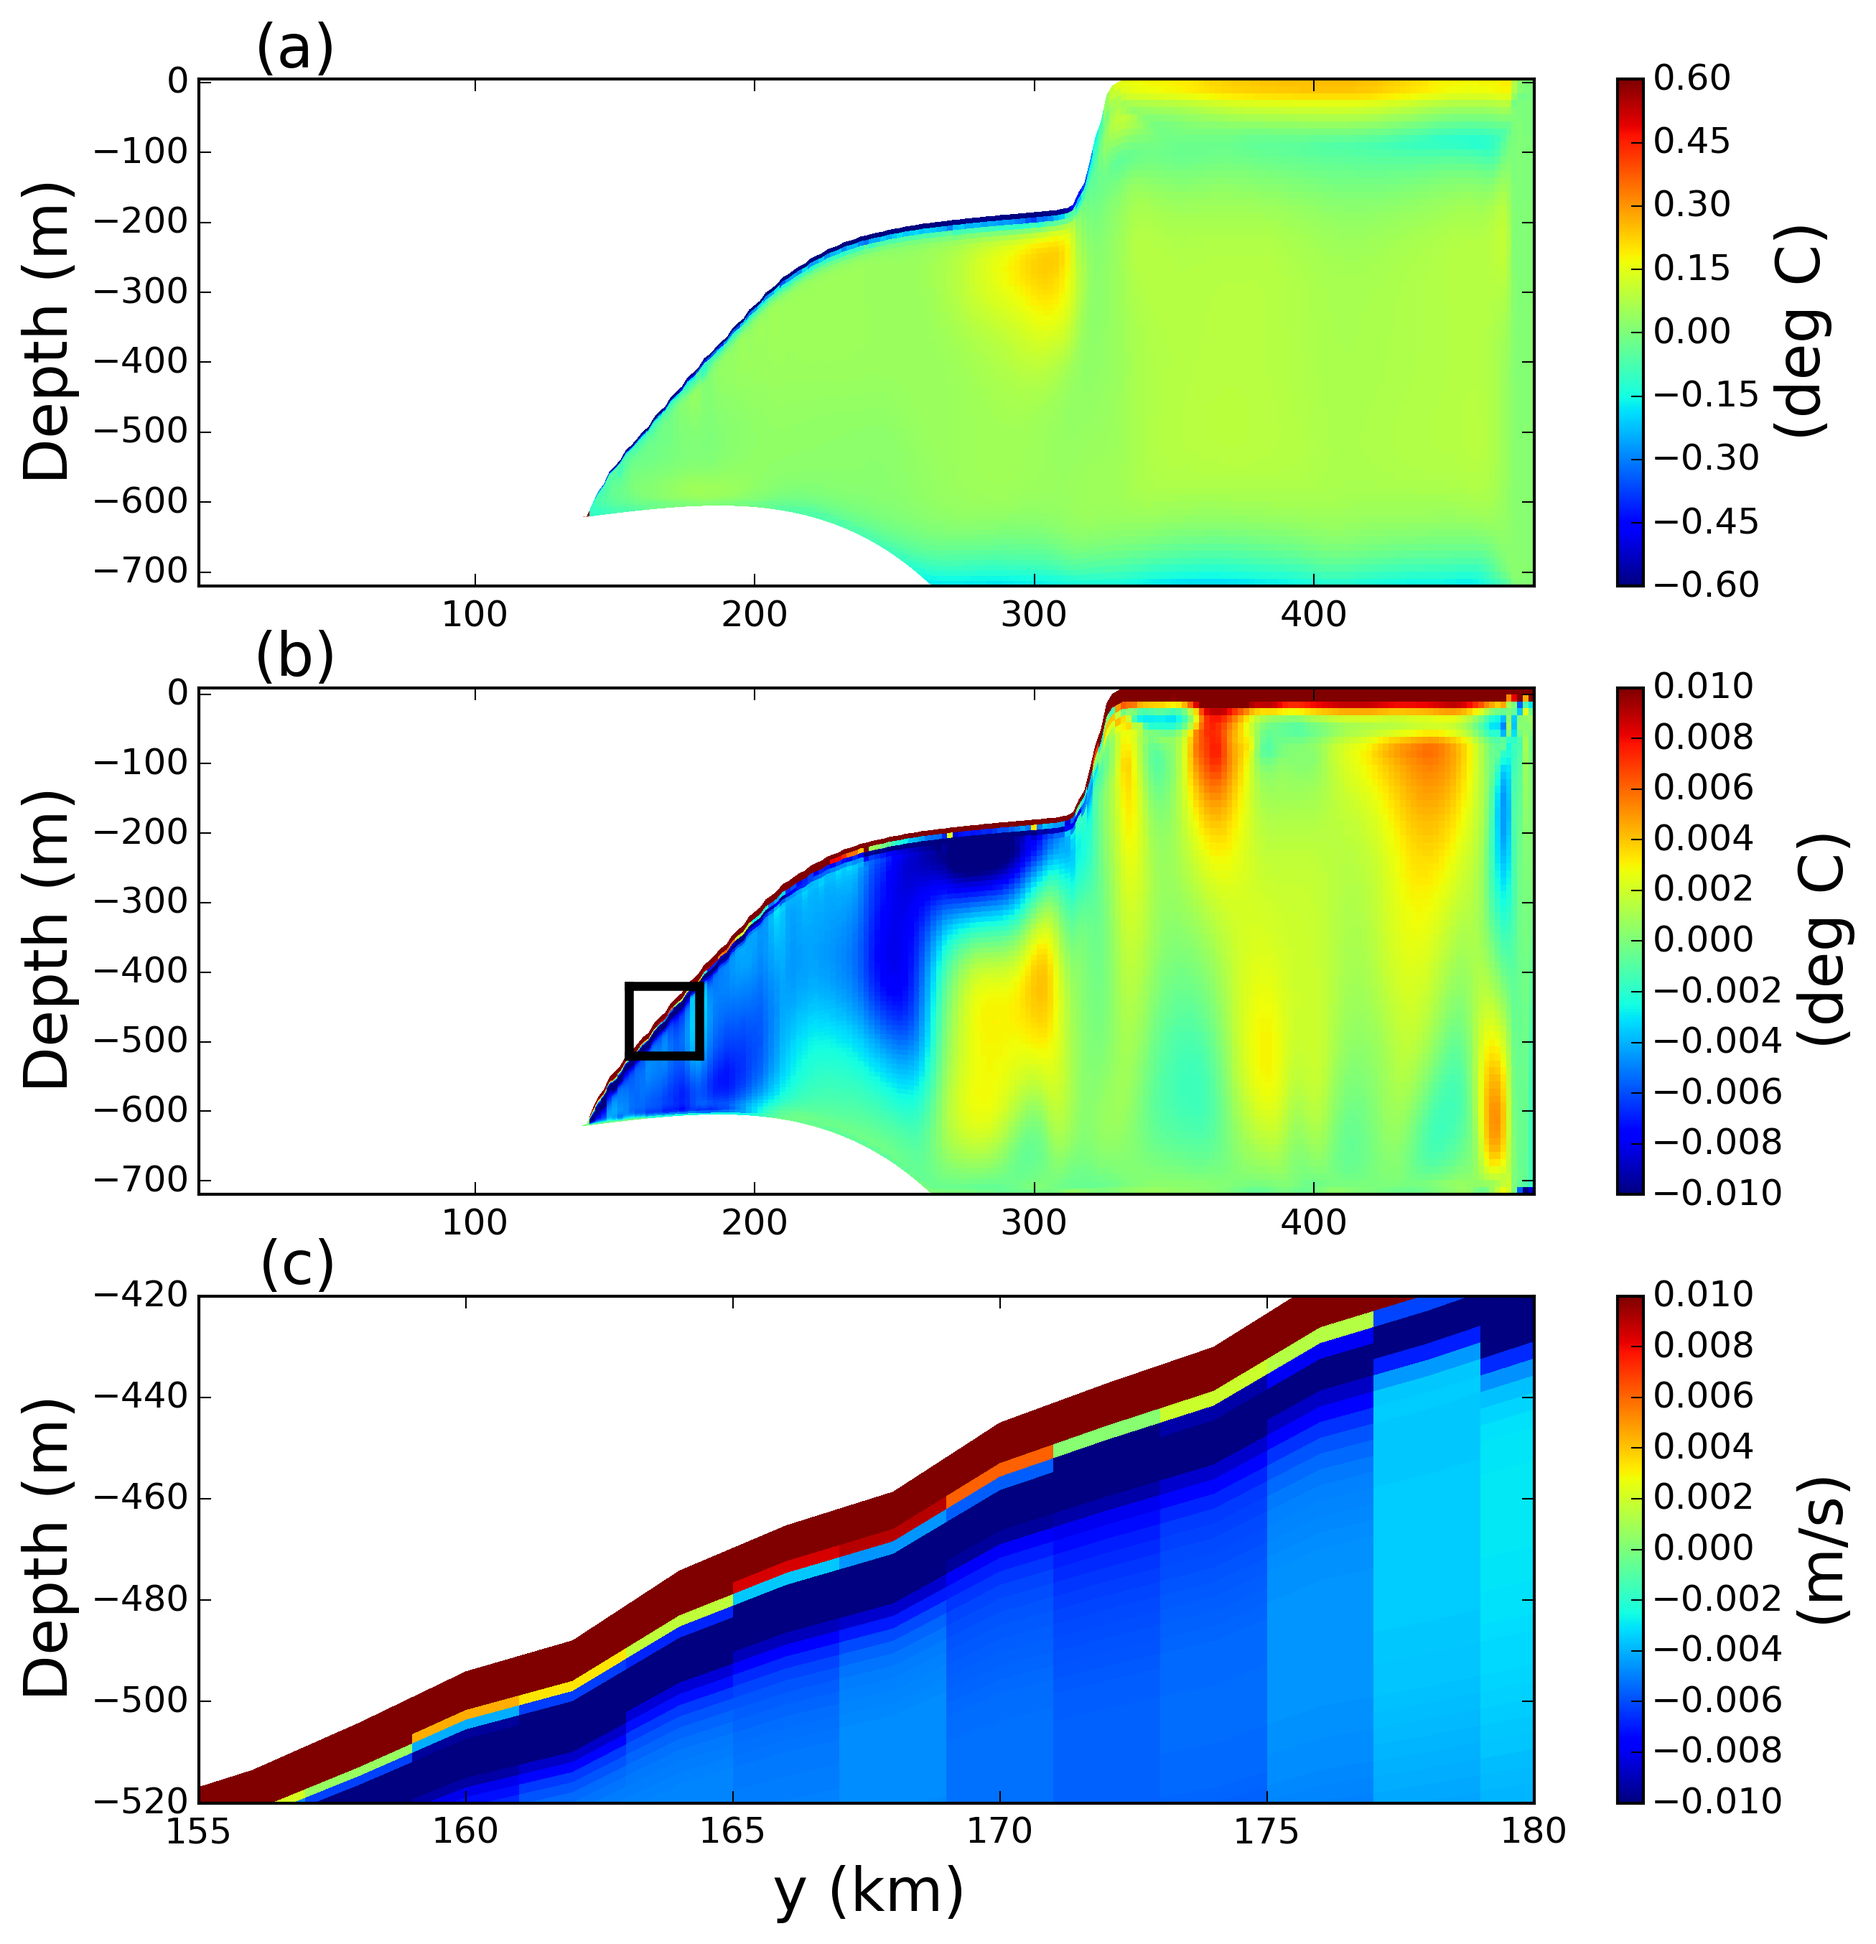
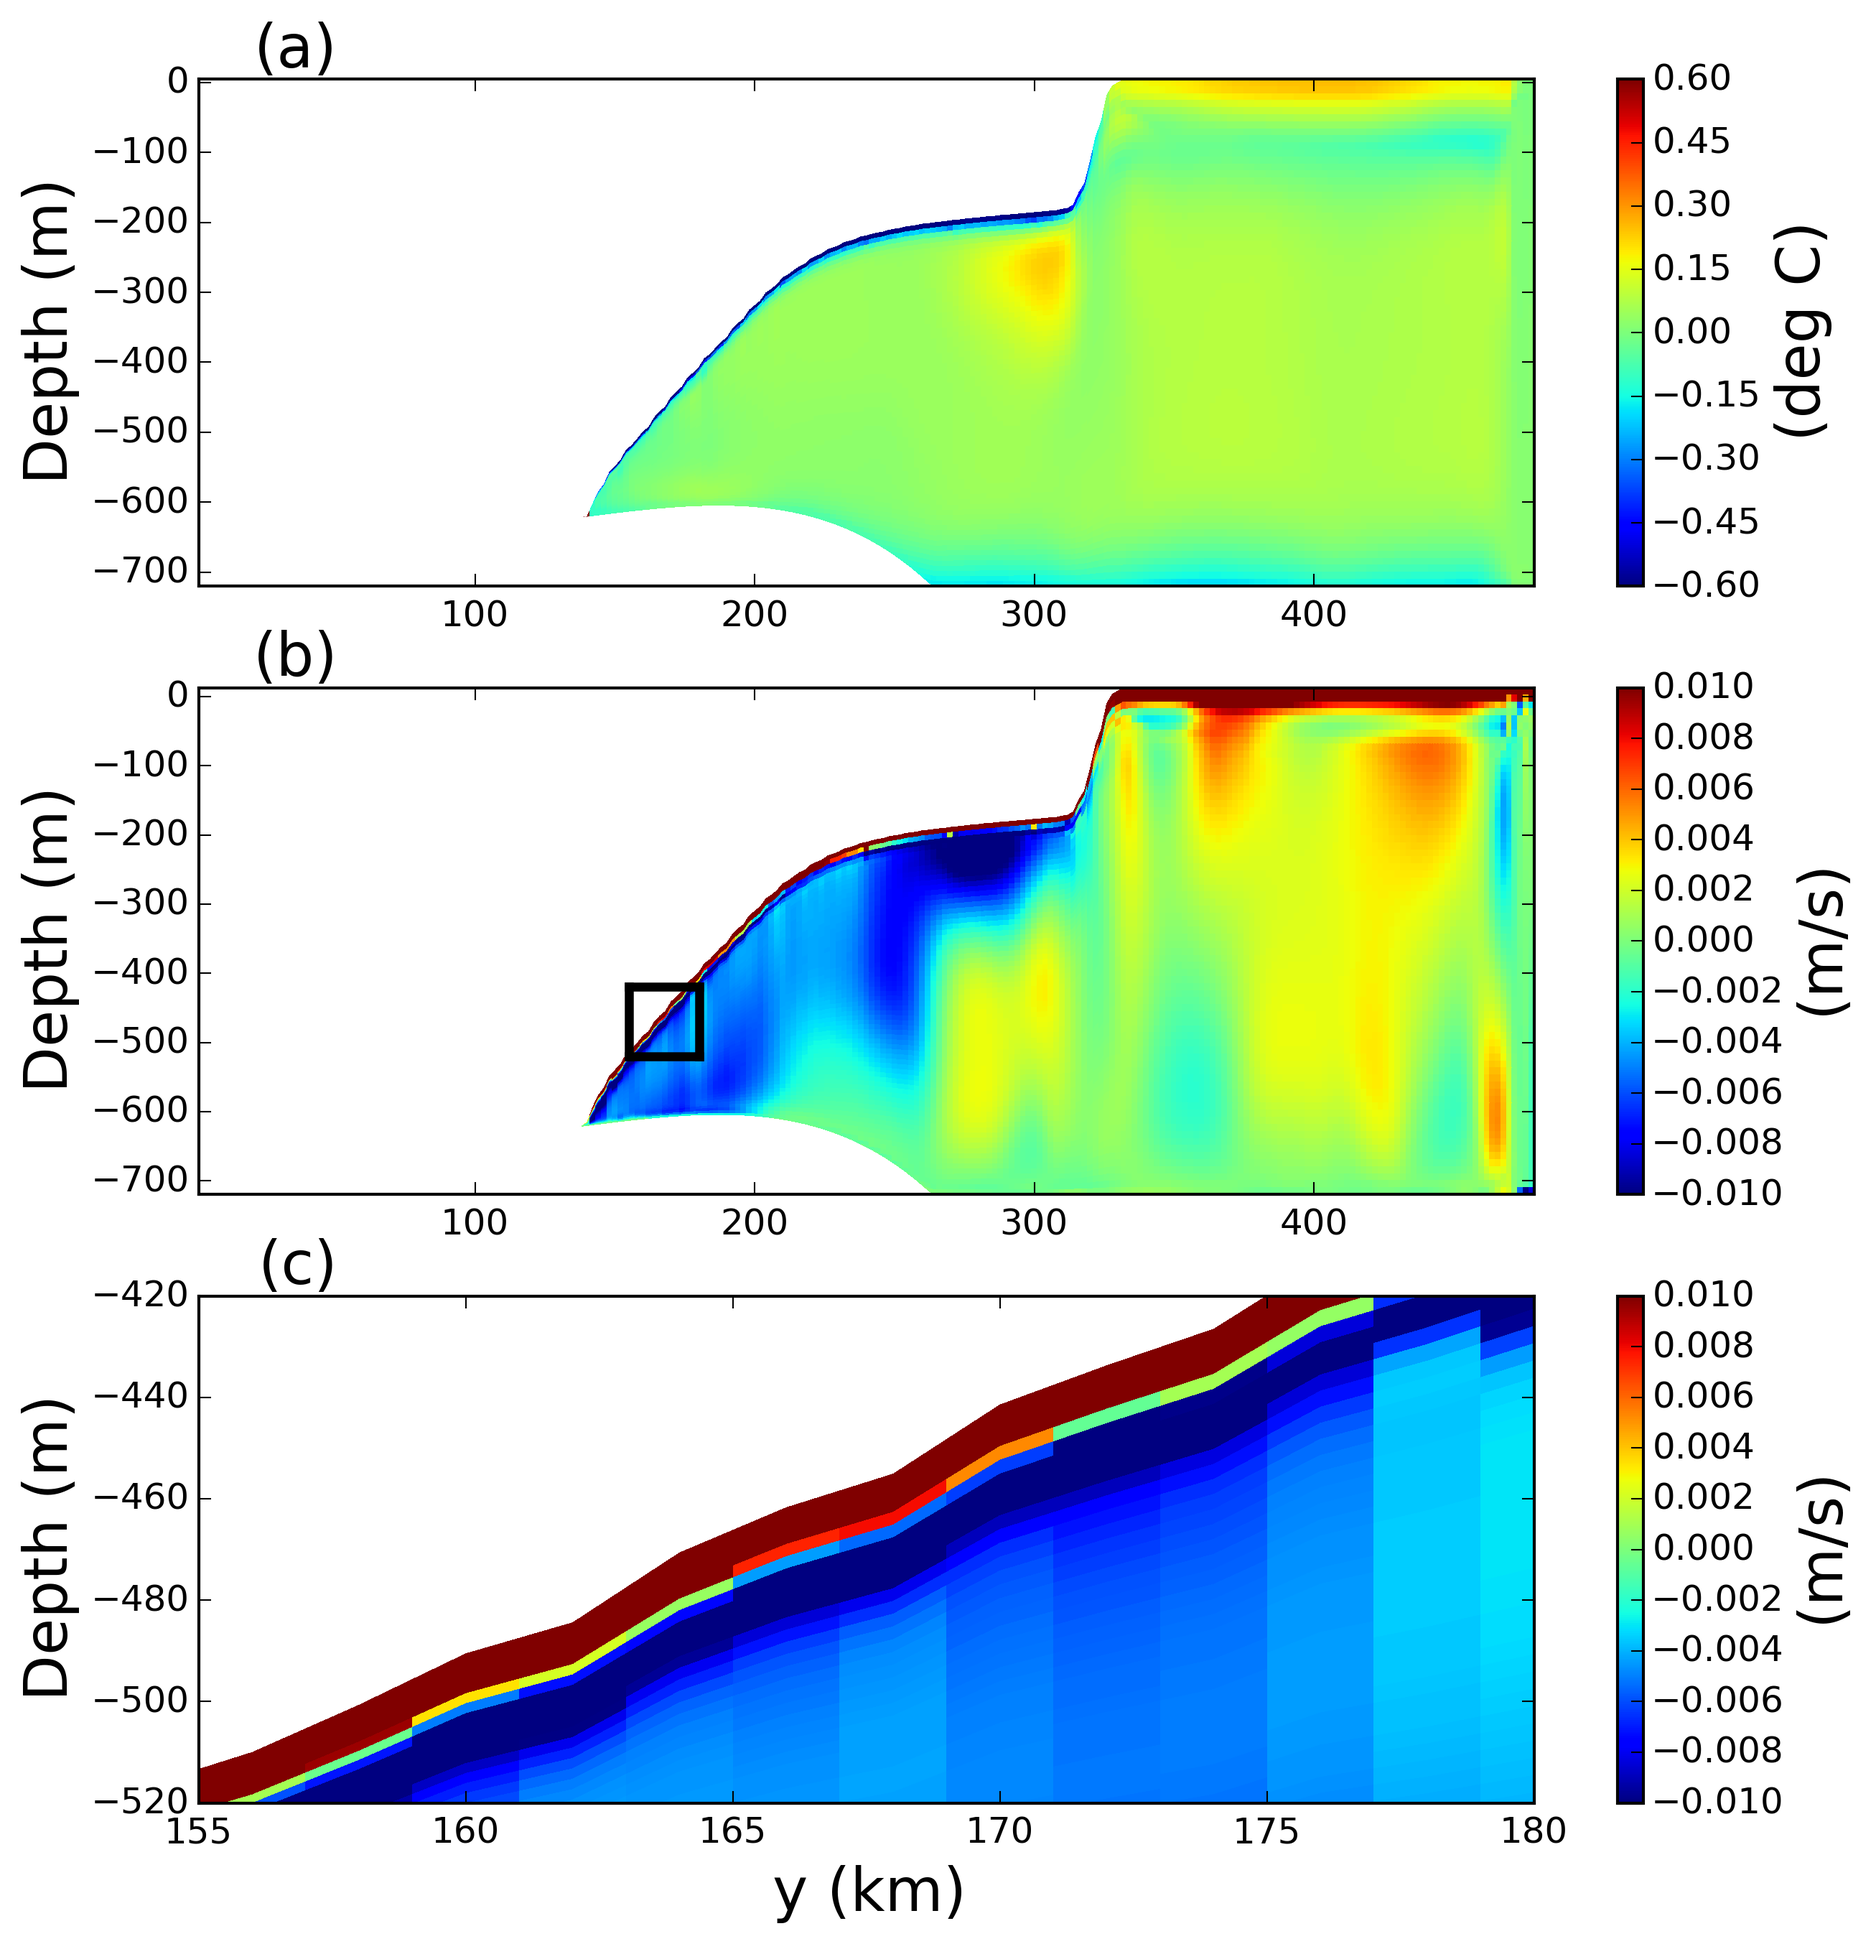
Adding broken comparison

diff --git a/snapshots.py b/snapshots.py
@@ -178,6 +178,7 @@ def main(args):
 
 	#What to plot?
         plot_horizontal_field=args.plot_horizontal_field
+	number_of_plots=3
 
 	#Which simulation to use
 	simulation=args.simulation
@@ -233,13 +234,24 @@ def main(args):
 		#Berg_path=berg_path+'Exp1/'
 		#Berg_path_init=berg_path+'After_Collapse/'
 		Berg_path_init=berg_path+'After_Static/'
+	elif simulation=='Wind_Broken_Compare':
+		Berg_path=berg_path+'After_Collapse/'
+		#Berg_path2=berg_path+'After_Broken/'
+		Berg_path2=berg_path+'Broken_with_Wind/'
+		#Berg_path=berg_path+'Exp1/'
+		#Berg_path_init=berg_path+'After_Collapse/'
+		Berg_path_init=berg_path+'After_Static/'
+		number_of_plots=2
 	else:
 		return
 
-	#Init file
-	filename_init=Berg_path_init+'00110101.ocean_month.nc'
 
 	extension=args.extension
+	
+	#Init file
+	#filename_init=Berg_path_init+'00110101.ocean_month.nc'
+	filename_init=Berg_path_init+'00110101.' +extension
+	print filename_init
 
 	#Geometry files
 	ocean_geometry_filename=Geometry_path +'ocean_geometry.nc'
@@ -276,6 +288,10 @@ def main(args):
 	if simulation=='Wind_Collapse' or simulation=='Wind_Static':
 		Berg_ocean_file1=Berg_path+'00110101.'
 		Berg_ocean_file2=Berg_path+'00110101.'
+		Berg_ocean_file3=Berg_path+'00110101.'
+	if simulation=='Wind_Broken_Compare':
+		Berg_ocean_file1=Berg_path+'00110101.'
+		Berg_ocean_file2=Berg_path2+'00060101.'
 		Berg_ocean_file3=Berg_path+'00110101.'
 
 	Berg_ocean_file_list=np.array([Berg_ocean_file1 +extension ,Berg_ocean_file2+ extension ,Berg_ocean_file3 + extension])
@@ -324,12 +340,12 @@ def main(args):
         ######################################################################################################################
         
         if plot_horizontal_field is True:
-		fig, axes = plt.subplots(nrows=1,ncols=3)
+		fig, axes = plt.subplots(nrows=1,ncols=number_of_plots)
 		fig.set_size_inches(15.0,10.0, forward=True)
 		#fig=plt.figure(figsize=(15,10),facecolor='grey')
 		ylim_min=args.ylim_min
 		ylim_max=args.ylim_max
-		for n in range(3):
+		for n in range(number_of_plots):
 			#flipped=False
 			#field='spread_area'  ;vmin=0.0  ; vmax=1.0
 			#field='melt_m_per_year'  ;vmin=0.0  ; vmax=5.000
@@ -351,7 +367,9 @@ def main(args):
 				print 'Subtracting t0', time
 
 			if plot_anomaly is True:
-				(data0,time)=load_and_compress_data(filename,field=field,time_slice='',time_slice_num=0\
+				#(data0,time)=load_and_compress_data(filename,field=field,time_slice='',time_slice_num=0\
+				#	,rotated=rotated,direction='xy',dir_slice=None, dir_slice_num=dir_slice_num, return_time=True)
+				(data0,time)=load_and_compress_data(filename_init,field=field,time_slice='',time_slice_num=-1\
 					,rotated=rotated,direction='xy',dir_slice=None, dir_slice_num=dir_slice_num, return_time=True)
 				data1= data1-data0
 				vmin=-vanom  ; vmax=vanom
@@ -359,7 +377,7 @@ def main(args):
 
 
 			time_str=str(int(np.round(time)))
-			ax=plt.subplot(1,3,n+1)
+			ax=plt.subplot(1,number_of_plots,n+1)
 			if args.mask_using_bergs is True:
 				iceberg_filename=Iceberg_file_list[n]
 				print iceberg_filename
@@ -402,6 +420,7 @@ def main(args):
 			if (n==0) and ( (args.field=='spread_area') or (args.field=='temp')) and (simulation=='Wind_Collapse'):
 				plt.plot(np.array([xvec[dashed_num], xvec[dashed_num]]), np.array([130., 460.]),'--', color='k',linewidth=3 )
 				plt.plot(np.array([0.0 ,  80.0]),  [yvec[dashed_num_hor], yvec[dashed_num_hor]], '--', color='darkblue',linewidth=3 )
+				print("Dashed lines at: ", yvec[dashed_num_hor] , xvec[dashed_num])
 		#Creating colorbar
 		fig.subplots_adjust(right=0.85)
 		if args.plot_second_colorbar is True:	

diff --git a/static_shelf_solo.py b/static_shelf_solo.py
@@ -404,7 +404,7 @@ def main(args):
 			vmax_list=np.array([1.0, 0.01, 0.01])
 			vanom_list=np.array([0.6, 0.01, 0.01])
 			cmap_list=np.array(['jet', 'jet', 'jet'])
-			colorbar_unit_list=np.array(['(deg C)','(deg C)','(m/s)'])
+			colorbar_unit_list=np.array(['(deg C)','(m/s)','(m/s)'])
 			time_slice_num_list=np.array([-1,-1,-1])
 			plot_anomaly_list=np.array([True, False, False])
 			filename_list=np.array([Berg_ocean_file_init, Berg_ocean_file,Berg_ocean_file])
